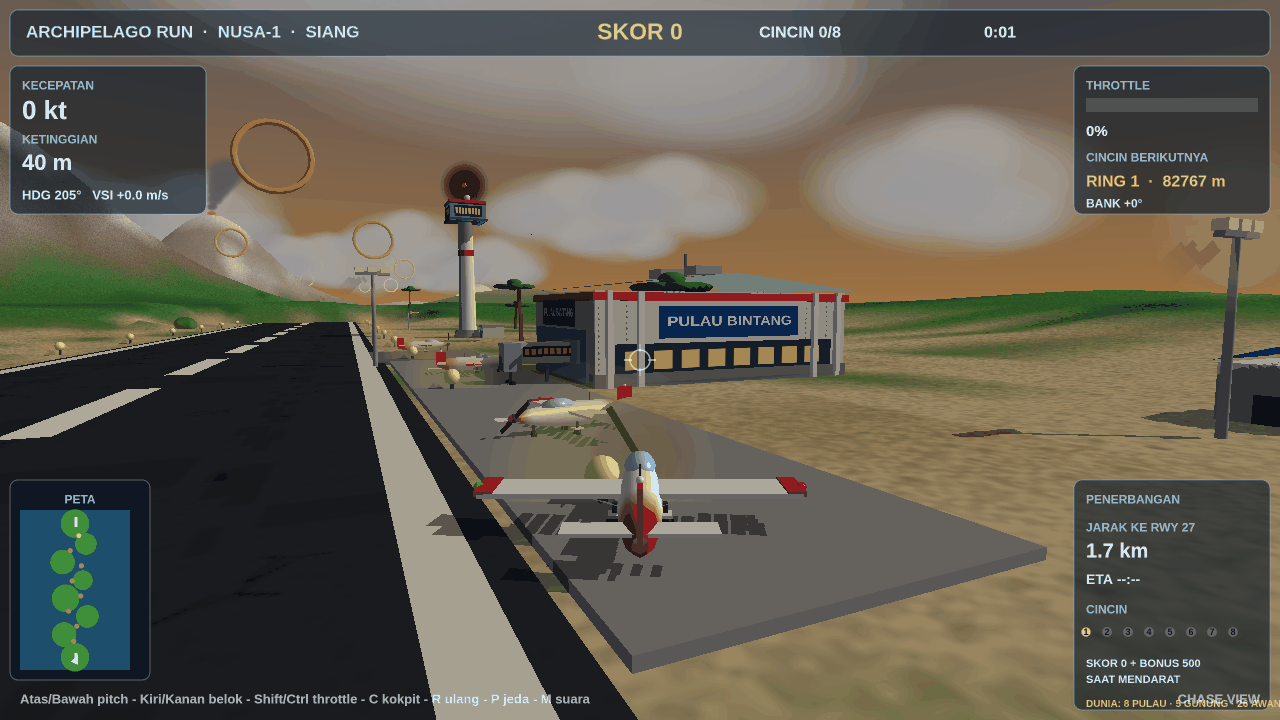
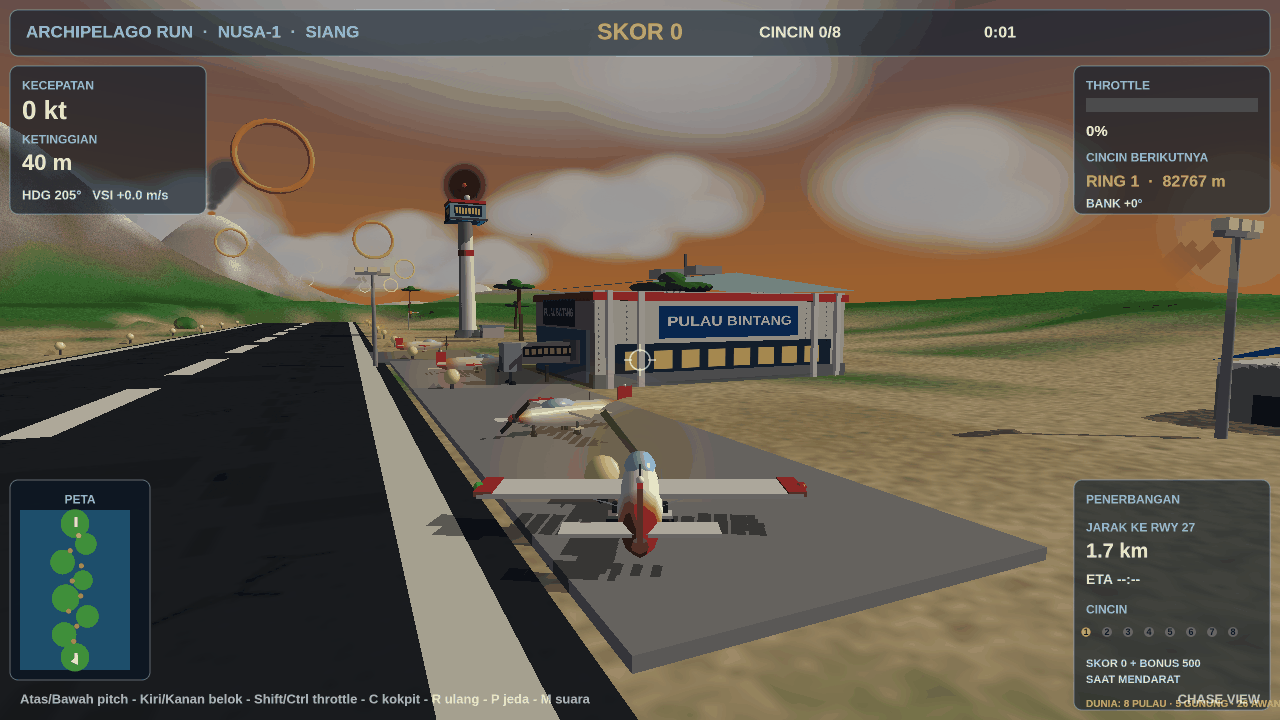
flight v7: deeper golden-hour sky, brighter gold ring, darker volcano smoke

diff --git a/game/index.html b/game/index.html
@@ -729,9 +729,9 @@ function buildSky(night){
       // gradient: golden-hour zenith deep blue -> horizon warm gold
       // (night: near-black -> dark blue)
       const t=clamp(1-ny,0,1);
-      const r=night?lerp(0.01,0.07,Math.pow(t,1.4)):lerp(0.15,0.98,Math.pow(t,1.4));
-      const g=night?lerp(0.02,0.11,Math.pow(t,1.4)):lerp(0.35,0.72,Math.pow(t,1.4));
-      const b=night?lerp(0.06,0.22,Math.pow(t,1.2)):lerp(0.75,0.42,Math.pow(t,1.2));
+      const r=night?lerp(0.01,0.07,Math.pow(t,1.4)):lerp(0.10,1.0,Math.pow(t,1.4));
+      const g=night?lerp(0.02,0.11,Math.pow(t,1.4)):lerp(0.30,0.62,Math.pow(t,1.4));
+      const b=night?lerp(0.06,0.22,Math.pow(t,1.2)):lerp(0.80,0.28,Math.pow(t,1.2));
       row.push(meshVert(m,nx*R,ny*R,nz*R,r,g,b,0,0,1,0,0));
     }
     grid.push(row);
@@ -964,7 +964,7 @@ function buildPalms(){
 }
 function buildRingMesh(ring){
   const m=Mesh();
-  meshTorus(m,ring.x,ring.y,ring.z,ring.r,5.5,0.96,0.72,0.10,22,10);
+  meshTorus(m,ring.x,ring.y,ring.z,ring.r,5.5,1.0,0.78,0.05,22,10);
   // small beacon lights around the torus
   for(let k=0;k<6;k++){
     const a=k/6*TAU;
@@ -1500,7 +1500,7 @@ function render(){
       const rise=(S.time*10+k*38)%230;
       const sx=p[0]+rise*0.4,sy=py+30+rise,sz=p[1]+rise*0.14;
       const ss=30+rise*0.5;
-      sprites.push({cx:sx,cy:sy,cz:sz,rx:ss,ry:ss*0.7,r:0.55,g:0.55,b:0.58,d:Math.hypot(sx-eye[0],sy-eye[1],sz-eye[2])});
+      sprites.push({cx:sx,cy:sy,cz:sz,rx:ss,ry:ss*0.7,r:0.38,g:0.36,b:0.40,d:Math.hypot(sx-eye[0],sy-eye[1],sz-eye[2])});
     }
     sprites.push({cx:p[0],cy:py+6,cz:p[1],rx:28,ry:15,r:1.0,g:0.45,b:0.12,d:Math.hypot(p[0]-eye[0],py+6-eye[1],p[1]-eye[2])});
   }
